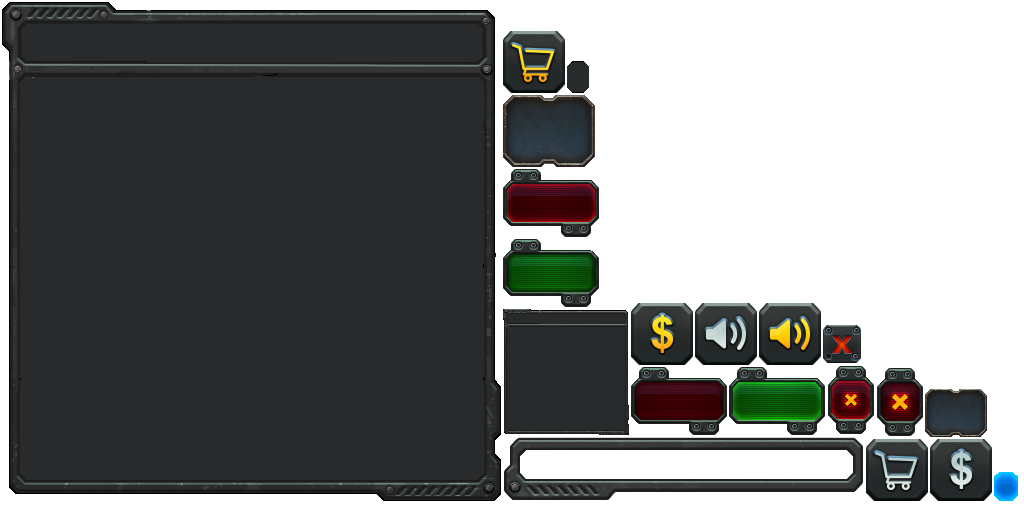
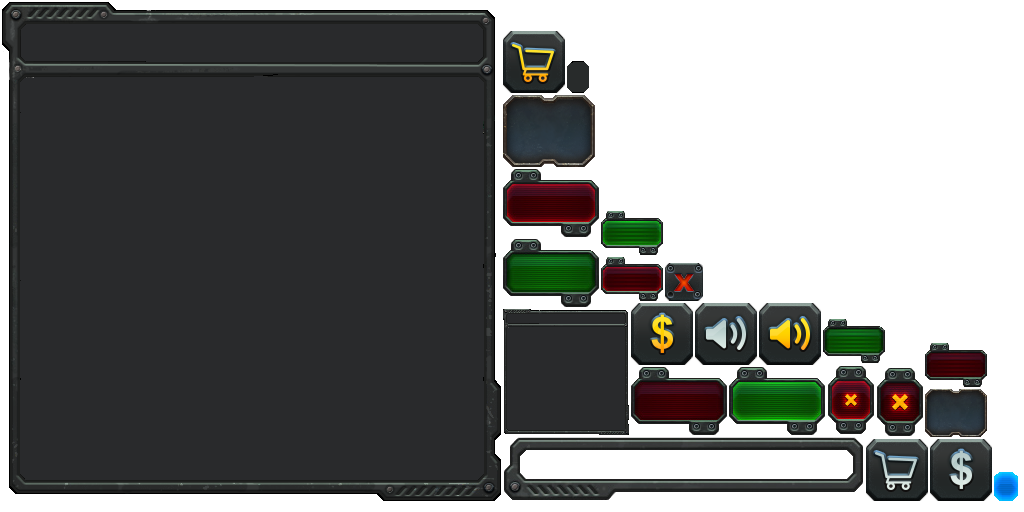
BaconGameJam2-10 Custom UI

Changed region(s): [[0.5625, 0.4062, 0.6875, 0.5938], [0.7812, 0.625, 0.875, 0.7188], [0.9062, 0.6562, 0.9688, 0.7812]]

diff --git a/core/src/com/deeep/jam/screens/GameScreen.java b/core/src/com/deeep/jam/screens/GameScreen.java
@@ -381,50 +381,50 @@ public class GameScreen implements Screen {
 
 
     private void addShopListeners() {
-        TextButton yes1Button = new TextButton("Yes", Assets.getAssets().getSkin());
+        TextButton yes1Button = new TextButton("Yes", Assets.getAssets().getSkin().get("default64", TextButton.TextButtonStyle.class));
         yes1Button.setSize(64, 32);
-        TextButton yes2Button = new TextButton("Yes", Assets.getAssets().getSkin());
+        TextButton yes2Button = new TextButton("Yes", Assets.getAssets().getSkin().get("default64", TextButton.TextButtonStyle.class));
         yes2Button.setSize(64, 32);
-        TextButton yes3Button = new TextButton("Yes", Assets.getAssets().getSkin());
+        TextButton yes3Button = new TextButton("Yes", Assets.getAssets().getSkin().get("default64", TextButton.TextButtonStyle.class));
         yes3Button.setSize(64, 32);
-        TextButton yes4Button = new TextButton("Yes", Assets.getAssets().getSkin());
+        TextButton yes4Button = new TextButton("Yes", Assets.getAssets().getSkin().get("default64", TextButton.TextButtonStyle.class));
         yes4Button.setSize(64, 32);
-        TextButton yes5Button = new TextButton("Yes", Assets.getAssets().getSkin());
+        TextButton yes5Button = new TextButton("Yes", Assets.getAssets().getSkin().get("default64", TextButton.TextButtonStyle.class));
         yes5Button.setSize(64, 32);
-        TextButton yes6Button = new TextButton("Yes", Assets.getAssets().getSkin());
+        TextButton yes6Button = new TextButton("Yes", Assets.getAssets().getSkin().get("default64", TextButton.TextButtonStyle.class));
         yes6Button.setSize(64, 32);
-        TextButton yes7Button = new TextButton("Yes", Assets.getAssets().getSkin());
+        TextButton yes7Button = new TextButton("Yes", Assets.getAssets().getSkin().get("default64", TextButton.TextButtonStyle.class));
         yes7Button.setSize(64, 32);
-        TextButton yes8Button = new TextButton("Yes", Assets.getAssets().getSkin());
+        TextButton yes8Button = new TextButton("Yes", Assets.getAssets().getSkin().get("default64", TextButton.TextButtonStyle.class));
         yes8Button.setSize(64, 32);
-        TextButton yes9Button = new TextButton("Yes", Assets.getAssets().getSkin());
+        TextButton yes9Button = new TextButton("Yes", Assets.getAssets().getSkin().get("default64", TextButton.TextButtonStyle.class));
         yes9Button.setSize(64, 32);
-        TextButton yes10Button = new TextButton("Yes", Assets.getAssets().getSkin());
+        TextButton yes10Button = new TextButton("Yes", Assets.getAssets().getSkin().get("default64", TextButton.TextButtonStyle.class));
         yes10Button.setSize(64, 32);
-        TextButton yes11Button = new TextButton("Yes", Assets.getAssets().getSkin());
+        TextButton yes11Button = new TextButton("Yes", Assets.getAssets().getSkin().get("default64", TextButton.TextButtonStyle.class));
         yes11Button.setSize(64, 32);
 
-        TextButton no1Button = new TextButton("No", Assets.getAssets().getSkin());
+        TextButton no1Button = new TextButton("No", Assets.getAssets().getSkin().get("defaultRed64", TextButton.TextButtonStyle.class));
         no1Button.setSize(64, 32);
-        TextButton no2Button = new TextButton("No", Assets.getAssets().getSkin());
+        TextButton no2Button = new TextButton("No", Assets.getAssets().getSkin().get("defaultRed64", TextButton.TextButtonStyle.class));
         no2Button.setSize(64, 32);
-        TextButton no3Button = new TextButton("No", Assets.getAssets().getSkin());
+        TextButton no3Button = new TextButton("No", Assets.getAssets().getSkin().get("defaultRed64", TextButton.TextButtonStyle.class));
         no3Button.setSize(64, 32);
-        TextButton no4Button = new TextButton("No", Assets.getAssets().getSkin());
+        TextButton no4Button = new TextButton("No", Assets.getAssets().getSkin().get("defaultRed64", TextButton.TextButtonStyle.class));
         no4Button.setSize(64, 32);
-        TextButton no5Button = new TextButton("No", Assets.getAssets().getSkin());
+        TextButton no5Button = new TextButton("No", Assets.getAssets().getSkin().get("defaultRed64", TextButton.TextButtonStyle.class));
         no5Button.setSize(64, 32);
-        TextButton no6Button = new TextButton("No", Assets.getAssets().getSkin());
+        TextButton no6Button = new TextButton("No", Assets.getAssets().getSkin().get("defaultRed64", TextButton.TextButtonStyle.class));
         no6Button.setSize(64, 32);
-        TextButton no7Button = new TextButton("No", Assets.getAssets().getSkin());
+        TextButton no7Button = new TextButton("No", Assets.getAssets().getSkin().get("defaultRed64", TextButton.TextButtonStyle.class));
         no7Button.setSize(64, 32);
-        TextButton no8Button = new TextButton("No", Assets.getAssets().getSkin());
+        TextButton no8Button = new TextButton("No", Assets.getAssets().getSkin().get("defaultRed64", TextButton.TextButtonStyle.class));
         no8Button.setSize(64, 32);
-        TextButton no9Button = new TextButton("No", Assets.getAssets().getSkin());
+        TextButton no9Button = new TextButton("No", Assets.getAssets().getSkin().get("defaultRed64", TextButton.TextButtonStyle.class));
         no9Button.setSize(64, 32);
-        TextButton no10Button = new TextButton("No", Assets.getAssets().getSkin());
+        TextButton no10Button = new TextButton("No", Assets.getAssets().getSkin().get("defaultRed64", TextButton.TextButtonStyle.class));
         no10Button.setSize(64, 32);
-        TextButton no11Button = new TextButton("No", Assets.getAssets().getSkin());
+        TextButton no11Button = new TextButton("No", Assets.getAssets().getSkin().get("defaultRed64", TextButton.TextButtonStyle.class));
         no11Button.setSize(64, 32);
 
         final Dialog smallGun1Dialog;

diff --git a/core/src/com/deeep/jam/classes/Assets.java b/core/src/com/deeep/jam/classes/Assets.java
@@ -24,7 +24,6 @@ public class Assets {
     private Texture canonIndexReferenceTexture;
     private Texture gameOverTexture;
     private Texture aboutTexture;
-    private Texture shopButton;
     private Music mainMenuMusic;
     private Music inGameMusic;
     private Sound big1;
@@ -120,7 +119,6 @@ public class Assets {
     private void loadTextures() {
         logo = new Texture(Gdx.files.internal("data/newLogo.png"));
         title = new Texture(Gdx.files.internal("data/title.png"));
-        shopButton = new Texture(Gdx.files.internal("data/button-shop.png"));
         canonIndexReferenceTexture = new Texture(Gdx.files.internal("canonIndexReference2.png"));
         gameOverTexture = new Texture(Gdx.files.internal("data/gameOver.png"));
         aboutTexture = new Texture(Gdx.files.internal("data/about.png"));
@@ -197,7 +195,6 @@ public class Assets {
         small.dispose();
         shopClick.dispose();
         selected.dispose();
-        shopButton.dispose();
         canonIndexReferenceTexture.dispose();
 
         loaded = false;
@@ -221,10 +218,6 @@ public class Assets {
 
     public Sound getSelected() {
         return selected;
-    }
-
-    public Texture getShopButton() {
-        return shopButton;
     }
 
     public Sound getBig2() {
